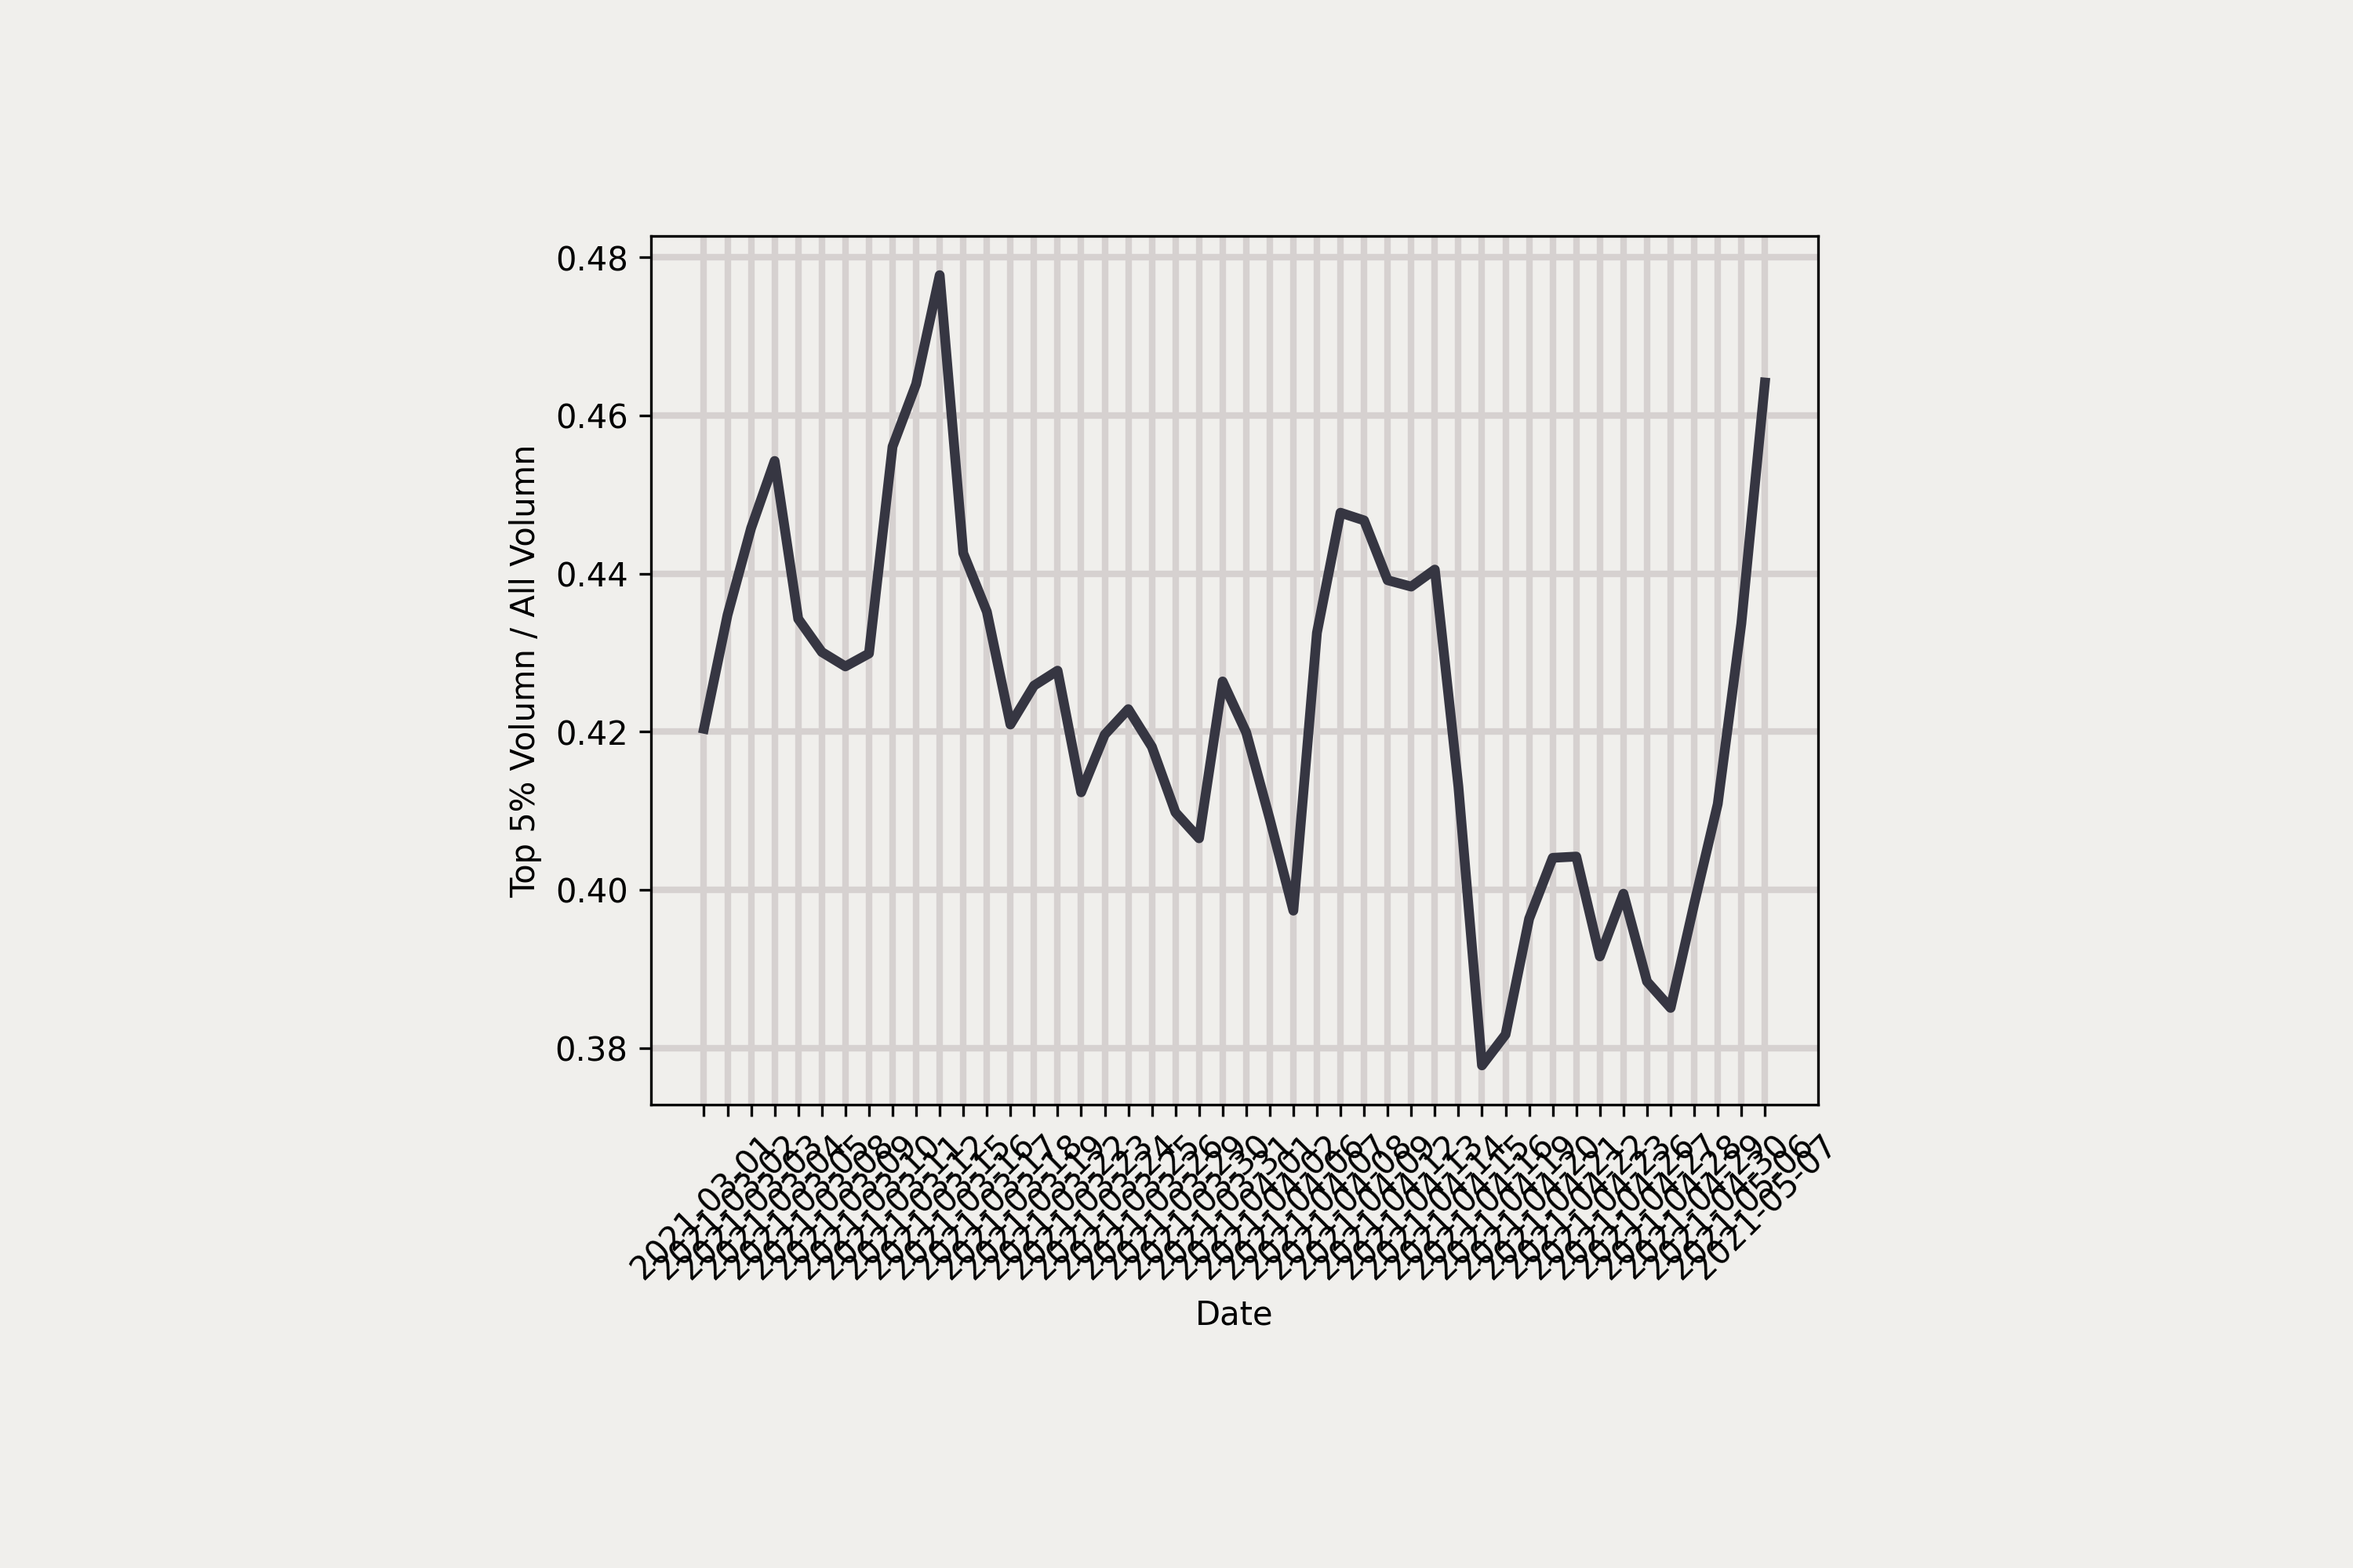
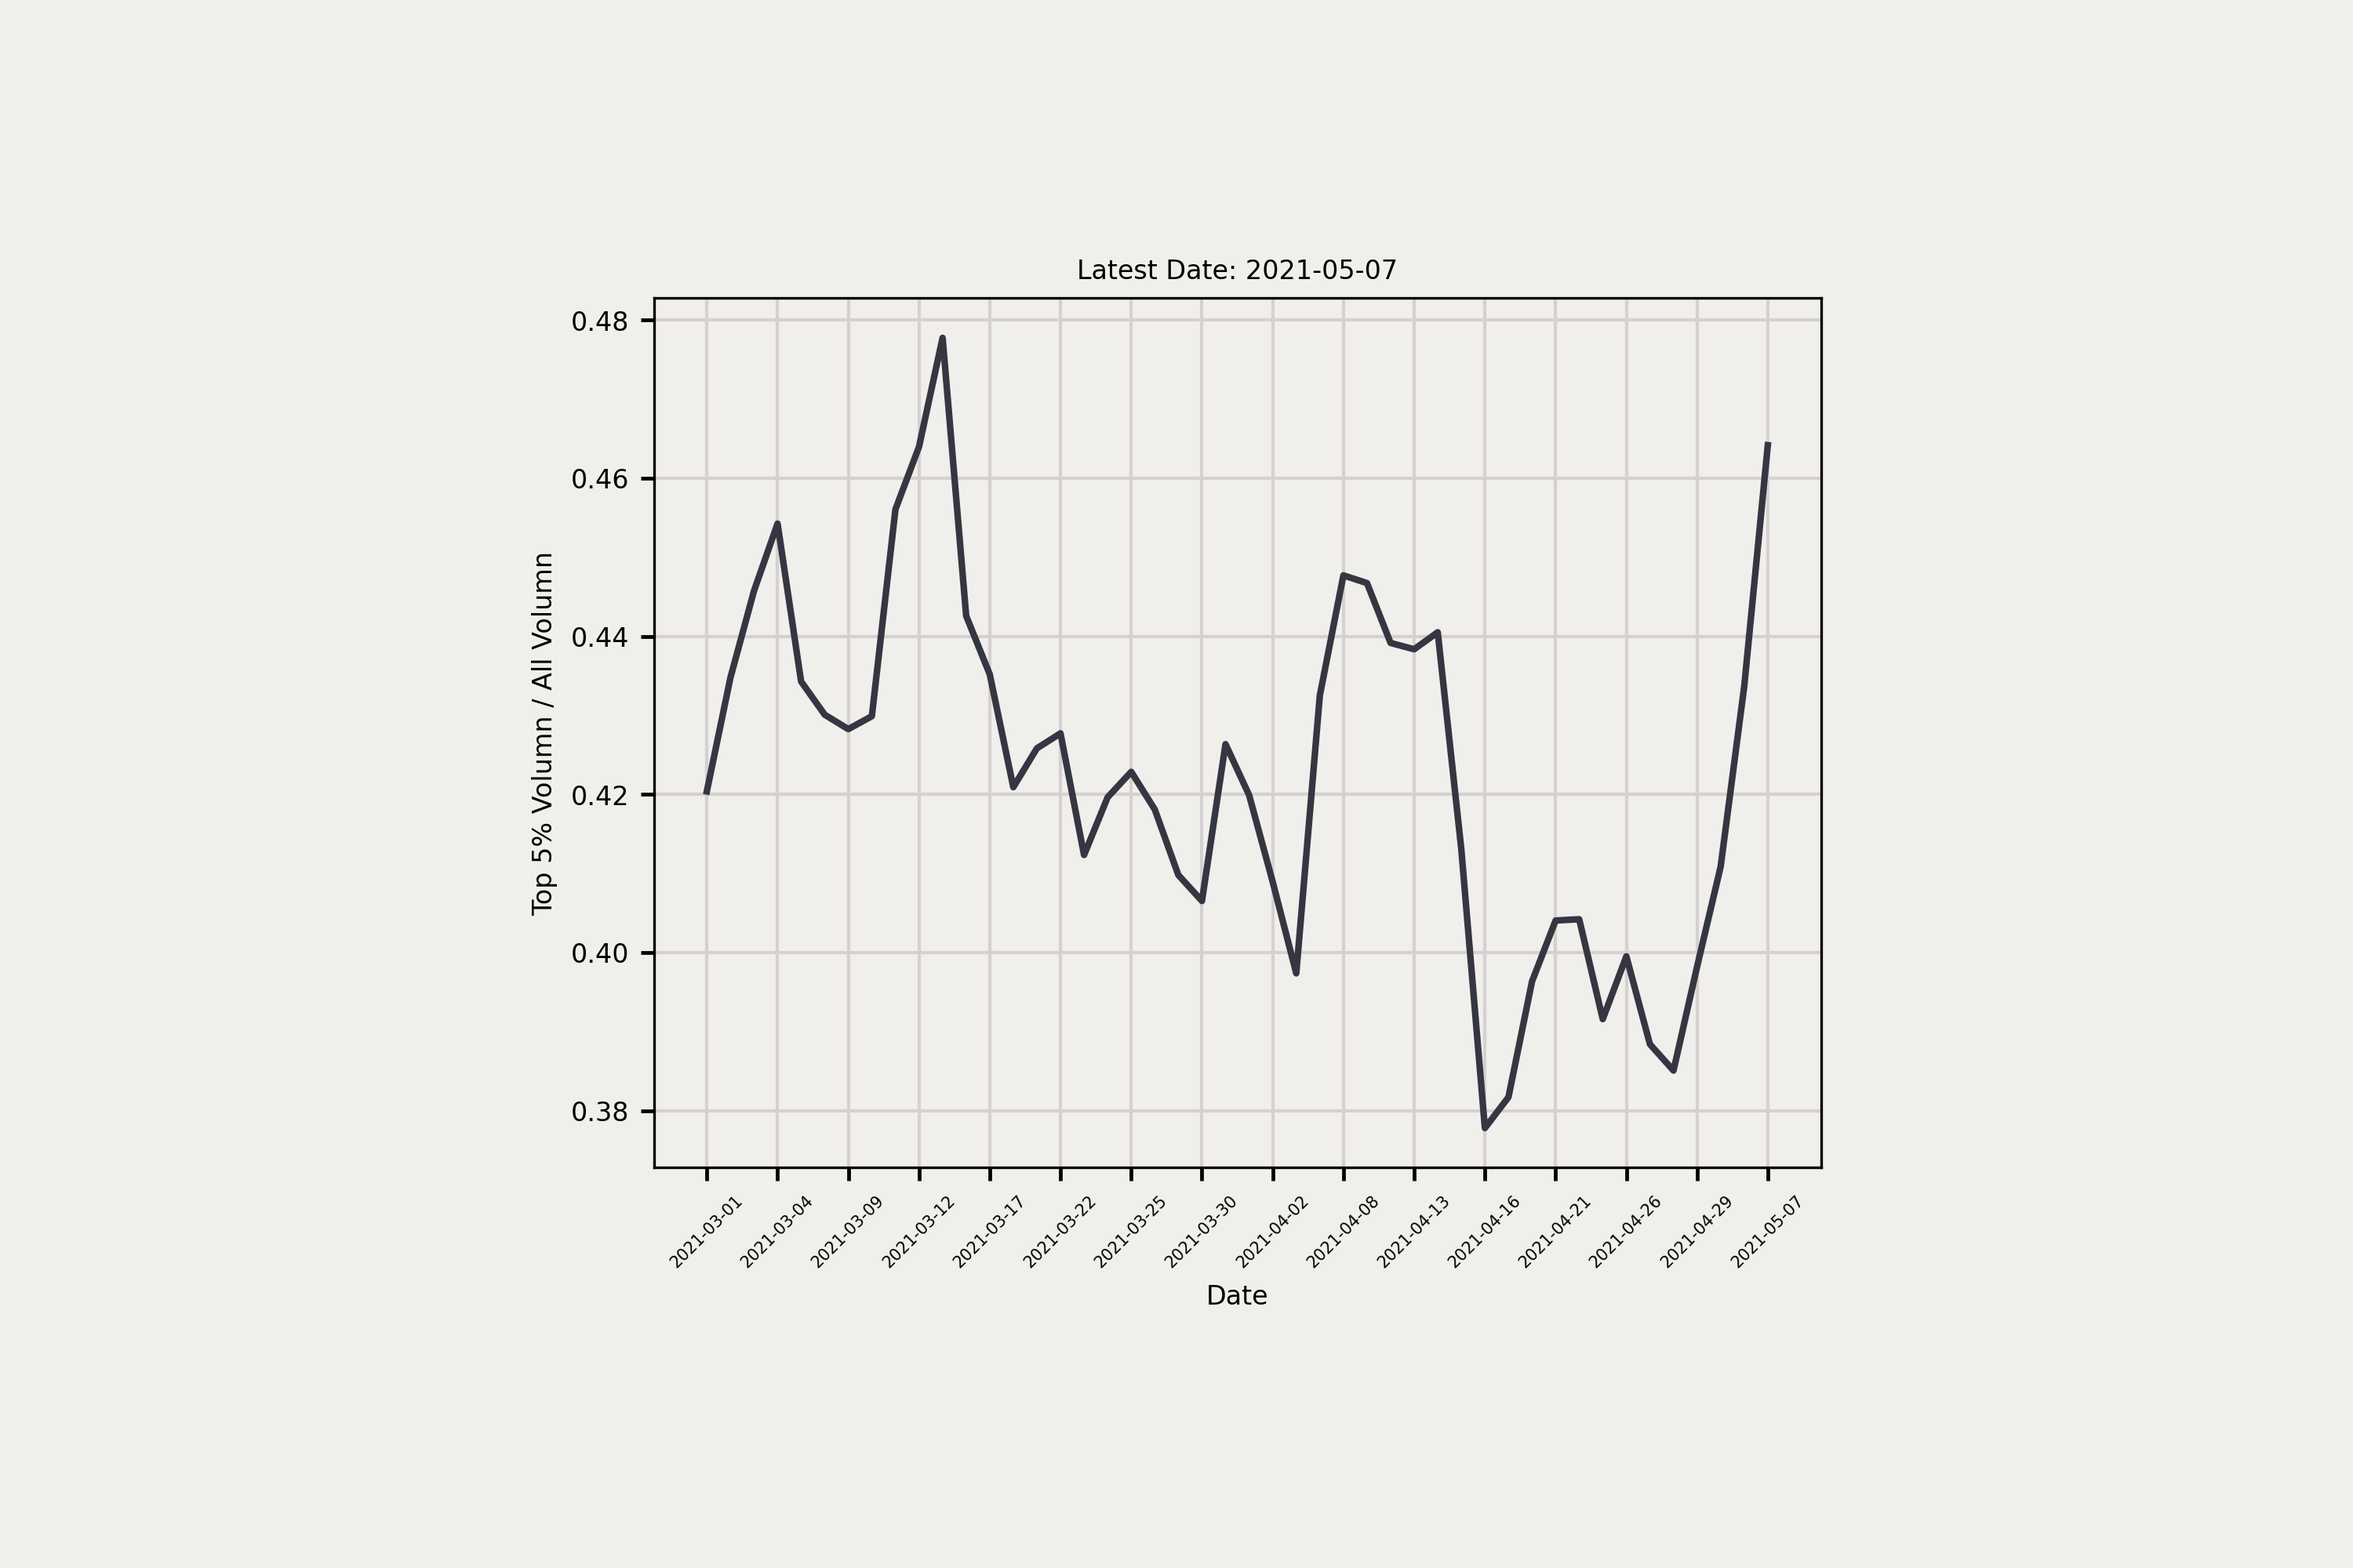
Update trade day data.

Changed region(s): [[0.217, 0.124, 0.775, 0.837]]

diff --git a/king_index/processor.py b/king_index/processor.py
@@ -3,17 +3,21 @@ import pandas as pd
 import matplotlib.pyplot as plt
 import re
 from PIL import Image
+import matplotlib.ticker as plticker
 
 df = pd.read_excel('data/成交量占比指标.xls')
-
+# The number of days is the columns of the df minus 2.
+# One is id, another is name.
 num = df.shape[1]-2
-table_as_array = np.zeros((num,4))
+# Need to reorganize data.
+# Each trade day count a row.
+table_as_array = np.zeros((num,5))
 table = pd.DataFrame(table_as_array)
-table.columns = ['日期', '前5%成交量(股)', '总成交量(股)', '指标']
+table.columns = ['日期', '前5%成交量(股)', '总成交量(股)', '指标','id']
 
-df.columns[2]
 for i in range(num):
     rolling_row_name = df.columns[i+2]
+    # df1 is a temporary dataframe, only to calcute the indicator for each day.
     df1 = df.filter([df.columns[0],df.columns[1],rolling_row_name], axis=1)
     df1 = df1[pd.to_numeric(df[rolling_row_name], errors='coerce').notnull()]
     df1 = df1.sort_values(by=[rolling_row_name],ascending=False)
@@ -23,30 +27,40 @@ for i in range(num):
     volumn_all = 0
     for j in range(five_percent):
         volumn_five_percent += df1.iloc[j,2]
-    df.shape[0]
     for k in range(df1.shape[0]):
         volumn_all += df1.iloc[k,2]
     volumn_index_on_that_day = volumn_five_percent/volumn_all
+
     the_date = re.findall(r'\d\d\d\d-\d\d-\d\d',rolling_row_name)[0]
     table.iloc[i,0] = the_date
     table.iloc[i,1] = volumn_five_percent
     table.iloc[i,2] = volumn_all
     table.iloc[i,3] = volumn_index_on_that_day
+    table.iloc[i,4] = i + 1
 
 table.to_excel(r'./output/index.xlsx', index = False)
 fig = plt.figure()
 ax = fig.add_subplot(111)
-ax.plot(table[table.columns[0]],table[table.columns[3]] ,',-',color='#363642',linewidth='3')
-# more linestyles: https://matplotlib.org/2.0.2/api/lines_api.html#matplotlib.lines.Line2D.set_linestyle
-ax.set_xlabel(u"Date",fontsize=10)
+ax.plot(table[table.columns[0]],table[table.columns[3]] ,',-',color='#363642',linewidth='2')
+
+ax.set_xlabel(u"Date",fontsize=8)
+ax.set_ylabel(u"Top 5% Volumn / All Volumn",fontsize=8)
+latest_date = table.iloc[num-1][0]
+ax.set_title('Latest Date: ' + latest_date, fontsize=8)
+
+loc_base = int(num/15)
+loc = plticker.MultipleLocator(base=loc_base) # this locator puts ticks at regular intervals
+ax.xaxis.set_major_locator(loc)
 plt.xticks(rotation = 45)
-ax.set_ylabel(u"Top 5% Volumn / All Volumn")
-# ax.set_title('Index')
-ax.set_facecolor('#F0EFEC')
-# ax.set_ylim((0.3, 0.5))
-ax.grid(True,which='both',axis='both',color='#D6D1D0', linestyle='-', linewidth=2)
+ax.tick_params(which='both', width=1.15)
+ax.tick_params(which='major', length=4)
+ax.tick_params(which='minor', length=2, color='k')
+ax.tick_params(axis='x',which='major',labelsize='5')
+ax.tick_params(axis='y',which='major',labelsize='8')
+
 fig.set_facecolor('#F0EFEC')
-# fig.savefig('./output/king_index_raw.png', dpi=200, pad_inches=10, bbox_inches='tight')
+ax.set_facecolor('#F0EFEC')
+ax.grid(True,which='both',axis='both',color='#D6D1D0', linestyle='-', linewidth=1)
 fig.savefig('./output/king_index_raw.png', dpi=300, bbox_inches='tight', pad_inches=1)
 fig.show()
 

diff --git a/king_index/test.py b/king_index/test.py
@@ -1,0 +1,42 @@
+import numpy as np
+import matplotlib.pyplot as plt
+import matplotlib.dates as mdates
+import matplotlib.cbook as cbook
+
+# Load a numpy structured array from yahoo csv data with fields date, open,
+# close, volume, adj_close from the mpl-data/example directory.  This array
+# stores the date as an np.datetime64 with a day unit ('D') in the 'date'
+# column.
+data = cbook.get_sample_data('goog.npz', np_load=True)['price_data']
+
+fig, ax = plt.subplots()
+ax.plot('date', 'adj_close', data=data)
+
+plt.show()
+# Major ticks every 6 months.
+fmt_half_year = mdates.nthLocator(interval=6)
+ax.xaxis.set_major_locator(fmt_half_year)
+
+# Minor ticks every month.
+fmt_month = mdates.MonthLocator()
+ax.xaxis.set_minor_locator(fmt_month)
+
+# Text in the x axis will be displayed in 'YYYY-mm' format.
+ax.xaxis.set_major_formatter(mdates.DateFormatter('%Y-%m'))
+
+# Round to nearest years.
+datemin = np.datetime64(data['date'][0], 'Y')
+datemax = np.datetime64(data['date'][-1], 'Y') + np.timedelta64(1, 'Y')
+ax.set_xlim(datemin, datemax)
+
+# Format the coords message box, i.e. the numbers displayed as the cursor moves
+# across the axes within the interactive GUI.
+ax.format_xdata = mdates.DateFormatter('%Y-%m')
+ax.format_ydata = lambda x: f'${x:.2f}'  # Format the price.
+ax.grid(True)
+
+# Rotates and right aligns the x labels, and moves the bottom of the
+# axes up to make room for them.
+fig.autofmt_xdate()
+
+plt.show()
